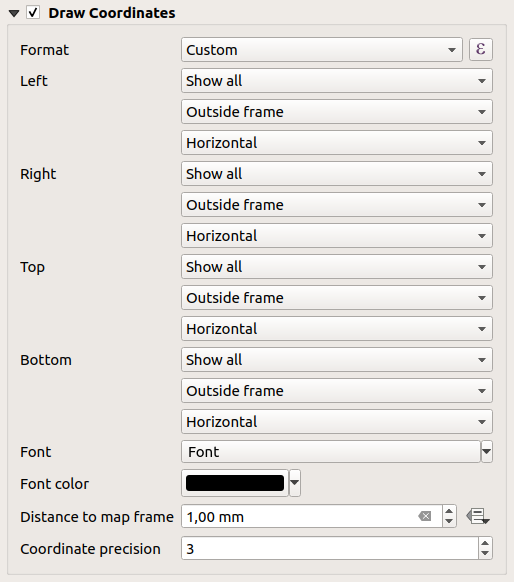
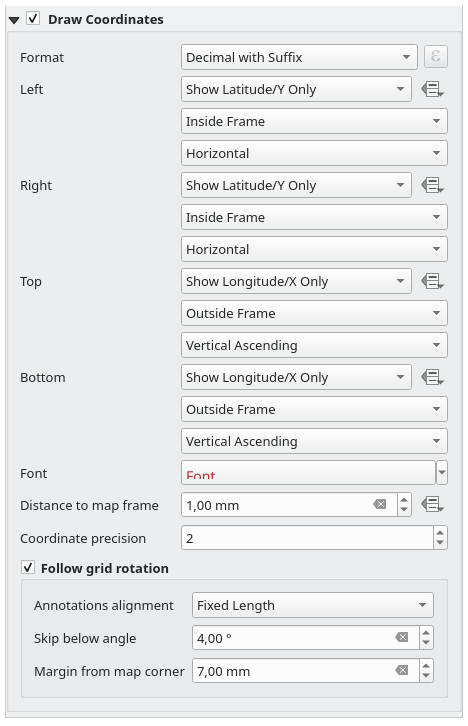
Update layout map grid "rotation" properties

diff --git a/docs/user_manual/print_composer/composer_items/composer_map.rst b/docs/user_manual/print_composer/composer_items/composer_map.rst
@@ -285,6 +285,8 @@ To modify a grid, select it and press the :guilabel:`Modify Grid...` button
 to open the :guilabel:`Map Grid Properties` panel and access its
 configuration options.
 
+.. _grid_appearance:
+
 Grid Appearance
 ...............
 
@@ -348,6 +350,25 @@ section you can prevent a mix of latitude/Y and longitude/X coordinates showing
 on each side when working with rotated maps or reprojected grids.
 Also you can choose to set visible or not each side of the grid frame.
 
+When the map item extent is rotated (from the :guilabel:`Main properties` group)
+or the grid has a different CRS applied, grid lines may not be orthogonal to the map item sides.
+This can result in bad looking of the grid when styled with interior and/or exterior ticks.
+Checking |checkbox| :guilabel:`Follow grid rotation` will align the ticks with grid lines.
+Moreover, you can adjust some more properties:
+
+* :guilabel:`Ticks alignment`: The interior and/or exterior ticks will be parallel
+  to their corresponding grid line.
+  Their alignment can be:
+
+  * **Orthogonal**: ticks on the same side end at one line, parallel to the side.
+    This can result e.g. in some ticks getting longer when with a low angle to the frame.
+  * **Fixed length**: all ticks have the same length, so they may not align
+* :guilabel:`Skip below angle`: prevents displaying ticks for grid lines intersecting the frame border
+  below a specified threshold
+* :guilabel:`Margin from map corner`: prevents displaying ticks too close to the map corners,
+  because they could overlap and/or be out of bounds.
+
+
 .. _Figure_layout_map_frame:
 
 .. figure:: img/map_grid_frame.png
@@ -359,18 +380,43 @@ Coordinates
 ...........
 
 The |checkbox| :guilabel:`Draw coordinates` checkbox allows you to add
-coordinates to the map frame. You can choose the annotation numeric format,
+coordinates to the map frame.
+Displayed values relate to the chosen :ref:`grid interval <grid_appearance>` unit.
+You can choose the annotation numeric format,
 the options range from decimal to degrees, minute and seconds, with or without
 suffix, aligned or not and a custom format using the expression dialog.
 
-You can choose which annotation to show. The options are: show all, latitude
-only, longitude only, or disable(none). This is useful when the map is rotated.
-The annotation can be drawn inside or outside the map frame. The annotation
-direction can be defined as horizontal, vertical ascending or vertical
-descending.
+For each of the :guilabel:`Left`, :guilabel:`Right`, :guilabel:`Top`
+and :guilabel:`Bottom` sides of the grid frame, you can indicate:
 
-Finally, you can define the annotation font, font color, distance from the map
-frame and the precision of the drawn coordinates.
+* whether to render the coordinates: **Show all**, **Show latitude/Y only**,
+  **Show longitude/X only**, **Disabled**.
+  Showing only Latitude/Y or Longitude/X values in the divisions
+  helps prevent a mix of latitude/Y and longitude/X coordinates showing
+  on each side when working with rotated maps or reprojected grids.
+* the relative position of the text to the grid frame:
+  **Outside frame** or **Inside frame**
+* the placement and orientation of the annotation:
+
+  * **Horizontal**
+  * **Vertical ascending**, **Vertical descending**
+  * **Boundary direction**
+  * **Above tick**, **On tick**, **Under tick** when a tick-based frame is used
+
+You can also define the :guilabel:`Font` properties (font, size, color, buffer,...)
+the :guilabel:`Distance to the map frame` and the :guilabel:`Coordinate precision`
+(number of decimals) for the drawn annotations.
+
+|unchecked| :guilabel:`Follow grid rotation`: available when the map extent is rotated
+or the grid is reprojected, it helps you adjust the annotations placement.
+Depending on the selected placement mode, the annotations are also rotated:
+
+* :guilabel:`Annotations alignment`: it can be **Orthogonal** or of **Fixed length**
+* :guilabel:`Skip below angle`: prevents displaying annotations for grid lines
+  intersecting the frame border below a specified threshold
+* :guilabel:`Margin from map corner`: prevents displaying annotations too close to the map corners,
+  because they could overlap and/or be out of bounds.
+
 
 .. _figure_layout_map_coord:
 
